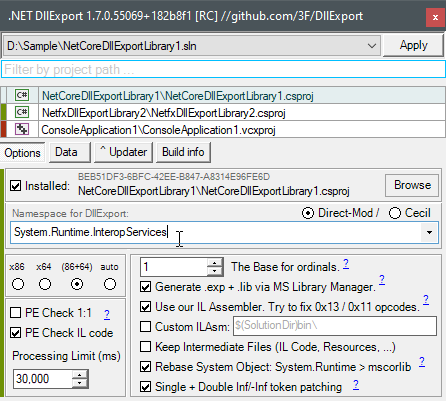
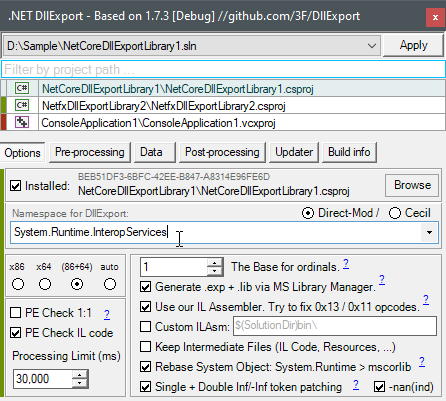
Public release. .NET DllExport 1.7.3
* FIXED: Fixed syntax error at token '-' in: IL_002d: ldc.r8 -nan(ind) with "return Double.NaN"
         Through "Single + Double NaN token patching" option. Issue #158.
            ```
            .field = float32(-nan(ind)) -> 0xFFC00000
            .field = float64(-nan(ind)) -> 0xFFF8000000000000

            ldc.r8 -nan(ind) -> 00 00 00 00 00 00 F8 FF
            ldc.r4 -nan(ind) -> 00 00 C0 FF
            ```

* FIXED: NuGet packages are not visible as installed when DLLExport enabled for project.
         Issue #152.

* FIXED: Concurrency Issue with Parallel Project Builds. Issue #73.

* FIXED: Fixed the first phase of the build when restoring. Related issue #159.

* FIXED: Fixed VS NuGet PM possible error:
         "You cannot call a method on a null-valued expression."

* CHANGED: Improves package integration. PR  #161.
            - Updated logic for packages through `-pkg-link` key.
            - Removed `-force` key from the project files
              if it was pushed together with other commands for manager.

Changed region(s): [[0.0, 0.1796, 1.0, 0.419], [0.1749, 0.0299, 0.8161, 0.0599], [0.8453, 0.9576, 0.991, 0.9875]]

diff --git a/DllExportVersion.cs b/DllExportVersion.cs
@@ -6,12 +6,12 @@ namespace net.r_eg.DllExport
 
     internal struct DllExportVersion
     {
-        public const string S_NUM = "1.7.1";
+        public const string S_NUM = "1.7.3";
         public const string S_REV = "0";
         public const string S_REL = "";
 
         public const string S_NUM_REV = S_NUM + "." + S_REV;
-        public const string S_PRODUCT = "1.7.1";
+        public const string S_PRODUCT = "1.7.3";
 
         public const string BRANCH_SHA1 = "-";
         public const string BRANCH_NAME = "-";

diff --git a/Readme.md b/Readme.md
@@ -1,6 +1,6 @@
 # [.NET DllExport](https://github.com/3F/DllExport)
 
-*.NET DllExport* (aka 3F/DllExport)
+*.NET DllExport* with .NET Core support (aka 3F/DllExport)
 
 ```
 Copyright (c) 2009-2015  Robert Giesecke
@@ -22,9 +22,7 @@ Copyright (c) 2016-2020  Denis Kuzmin < x-3F@outlook.com > GitHub/3F
 [`DllExport`](https://3f.github.io/DllExport/releases/latest/manager/)` -action Configure` [[?](#how-to-get-dllexport)]
 
 > [ ***[Quick start](https://github.com/3F/DllExport/wiki/Quick-start)*** ] [ [Examples: C++, C#, Java](https://github.com/3F/DllExport/wiki/Examples) ] 
-> -> { **[Wiki](https://github.com/3F/DllExport/wiki)** }
-
-~ ~ ~ --- ~ ~ ~
+> -> { **[Wiki](https://github.com/3F/DllExport/wiki)** } { [🧪 Demo src](https://github.com/3F/Examples/tree/master/DllExport/BasicExport) }
 
 ```csharp
 [DllExport]
@@ -53,30 +51,8 @@ public static int entrypoint(IntPtr L)
 We're supporting the following PE modules: Library (**.dll**) and Executable (**.exe**) [[?](https://github.com/3F/DllExport/issues/18)]
 
 
-v1.2+ provides dynamic definitions of namespaces ([ddNS feature](https://github.com/3F/DllExport/wiki/Quick-start#namespaces)):
-
-```cpp
-    Via Cecil or direct modification:
-
-    000005B0                 00 C4 7B 01 00 00 00 2F 00 12 05       .Д{..../...
-    000005C0  00 00 02 00 00 00 00 00 00 00 00 00 00 00 26 00  ..............&.
-    000005D0  20 02 00 00 00 00 00 00 00 49 2E 77 61 6E 74 2E   ........I.want.   <<<-
-    000005E0  74 6F 2E 66 6C 79 00 00 00 00 00 00 00 00 00 00  to.fly..........  <<<-
-```
-
 [![](./Resources/img/DllExport.png)](https://3f.github.io/DllExport/releases/latest/manager/)
 [![](https://raw.githubusercontent.com/3F/Conari/master/Conari/Resources/screencast_Complex_types.jpg)](https://www.youtube.com/watch?v=QXMj9-8XJnY)
-
-
-----
-
-
-[Initially](https://github.com/3F/DllExport/issues/3) the original tool `UnmanagedExports` was distributed by Robert Giesecke as an closed-source tool **under the [MIT License](https://opensource.org/licenses/mit-license.php)**:
-
-* [Official page](https://sites.google.com/site/robertgiesecke/Home/uploads/unmanagedexports) - *posted Jul 9, 2009 [ updated Dec 19, 2012 ]*
-* [Official NuGet Packages](https://www.nuget.org/packages/UnmanagedExports)
-
-Now, we will be more open ! all details [here](https://github.com/3F/DllExport/issues/3)
 
 ## License
 
@@ -132,82 +108,27 @@ Read also my brief explanations here: [AssemblyRef encoding](https://github.com/
 
 Since v1.6+ have no official support of NuGet clients ([[?](https://github.com/3F/DllExport/wiki/DllExport-Manager-Q-A)]), you need just use [this](https://3f.github.io/DllExport/releases/latest/manager/) inside your solution folder. **Wiki:** [ [Quick start](https://github.com/3F/DllExport/wiki/Quick-start) ]
 
-Get our manager (~19 Kbytes) from any **trusted** place. Official [GHR](https://github.com/3F/DllExport/releases/latest) is recommended. But you can also get it from official packages via NuGet server [![NuGet package](https://img.shields.io/nuget/v/DllExport.svg)](https://www.nuget.org/packages/DllExport/), etc.
-
-[ **[Documentation](https://github.com/3F/DllExport/wiki/DllExport-Manager)** ]
-
-[![DllExport.bat](./Resources/img/DllExport_manager.png)](https://github.com/3F/DllExport/wiki/DllExport-Manager#console)
-
-Other way:
-
-* `gnt /p:ngpackages="DllExport"` [[?](https://github.com/3F/GetNuTool)]
-    * [GetNuTool](https://github.com/3F/GetNuTool): `msbuild gnt.core /p:ngpackages="DllExport"` or [`gnt`](https://3F.github.io/GetNuTool/releases/latest/gnt/)` /p:ngpackages="DllExport"`
-* (deprecated) NuGet PM: `Install-Package DllExport`
-* (deprecated) NuGet Commandline: `nuget install DllExport`
-* GHR Stable: [/releases](https://github.com/3F/DllExport/releases) [ [latest stable](https://github.com/3F/DllExport/releases/latest) ]
-* CI builds: [`/artifacts` page](https://ci.appveyor.com/project/3Fs/dllexport-ix27o/history) ( [old CI](https://ci.appveyor.com/project/3Fs/dllexport/history) ) or find `🎲 CI build` on [GitHub Releases](https://github.com/3F/Dllexport/releases) page.
+Get our manager (~20 Kbytes) from any **trusted** place. Official [GHR](https://github.com/3F/DllExport/releases/latest) is recommended. But you can also get it from official packages via NuGet server [![NuGet package](https://img.shields.io/nuget/v/DllExport.svg)](https://www.nuget.org/packages/DllExport/), etc. [ **[Documentation](https://github.com/3F/DllExport/wiki/DllExport-Manager)** ]
 
 ### How to Build .NET DllExport
 
 Just use build.bat if you need final binaries (NuGet package as `DllExport.<version>.nupkg`, Manager, zip-archives, and others).
 
 ```batch
-.\build
+.\build Debug
 ```
 
-Part of this build scripts works via vssbe ([?](https://github.com/3F/DllExport/issues/31#issuecomment-294231378)) and for build via console (including CI etc.) uses [CIM](https://www.nuget.org/packages/vsSolutionBuildEvent/) version of this. You do not need anything else, just type `build`.
+Part of the build works through [vssbe](https://github.com/3F/vsSolutionBuildEvent) (including CI that uses [CIM](https://www.nuget.org/packages/vsSolutionBuildEvent/) version). But you don't need to do anything at all. For Visual Studio IDE you can also use [vsix version](https://visualstudiogallery.msdn.microsoft.com/0d1dbfd7-ed8a-40af-ae39-281bfeca2334/)
 
-For Visual Studio use this [vsix version for IDE](https://visualstudiogallery.msdn.microsoft.com/0d1dbfd7-ed8a-40af-ae39-281bfeca2334/)
+### Modified ILAsm + ILDasm on coreclr
 
-### How to Debug
-
-Wizard through MSBuild, for example:
-
-```
-C:\Windows\Microsoft.NET\Framework\v4.0.30319\MSBuild.exe
-```
-
-Arguments:
-
-```bash
-"net.r_eg.DllExport.Wizard.targets" /p:wRootPath="<...>" 
-/p:wSlnFile="<SolutionFile_for_debugging>.sln" /p:wAction="Configure" 
-/p:wPkgPath=packages/DllExport<version>
-```
-
-Working directory:
-```
-<path_to>\packages\DllExport<version>\tools
-```
-
-DllExport.MSBuild, for example:
-
-```
-C:\Program Files (x86)\MSBuild\14.0\Bin\MSBuild.exe
-```
-
-Arguments:
-
-```bash
-"<path_to_SolutionFile_for_debugging>.sln" /t:Build /p:Configuration=<Configuration>
-```
-
-use additional `Diagnostic` key to msbuild if you need more details:
-```bash
-"<SolutionFile>.sln" /verbosity:Diagnostic /t:Rebuild /p:Configuration=<Configuration>
-```
-
-Now you can debug at runtime.
-
-### coreclr ILAsm / ILDasm
-
-We're using **our custom versions on coreclr** specially for our .NET DllExport project - https://github.com/3F/coreclr
+We're using **our modified versions on coreclr** specially for our .NET DllExport project - https://github.com/3F/coreclr
 
 This helps to avoid some problems ([like this](https://github.com/3F/DllExport/issues/125#issuecomment-561245575), or [this](https://github.com/3F/DllExport/issues/17)) and more...
 
 *To build minimal version (it will not include all components as for original coreclr repo):*
 
-* Restore git submodule or use repo: https://github.com/3F/coreclr.git
+Restore git submodule or use repo: https://github.com/3F/coreclr.git
 
 ```bash
 git submodule update --init --recursive
@@ -219,21 +140,15 @@ git submodule update --init --recursive
 build-s -all -x86 -x64 Release
 ```
 
-or use
-```bash
-build-coreclr-ilasm-x64.cmd
-build-coreclr-ilasm-x86+x64.cmd
-```
-
-*You can also use our compiled versions:*
-
-* [![NuGet package](https://img.shields.io/nuget/v/ILAsm.svg)](https://www.nuget.org/packages/ILAsm/)
+*You can also use our compiled versions:* [![NuGet package](https://img.shields.io/nuget/v/ILAsm.svg)](https://www.nuget.org/packages/ILAsm/)
 
 ### Donation
 
-Please note again, the [UnmanagedExports](https://www.nuget.org/packages/UnmanagedExports) was created by Robert Giesecke. You need [visit his page](https://sites.google.com/site/robertgiesecke/Home/uploads/unmanagedexports).
+Please note again, the [UnmanagedExports](https://www.nuget.org/packages/UnmanagedExports) was created by Robert Giesecke. His page is [here](https://sites.google.com/site/robertgiesecke/Home/uploads/unmanagedexports). [[?](https://github.com/3F/DllExport/issues/3#issuecomment-232422362)]
 
-But this repository [**does not related**](https://github.com/3F/DllExport/issues/87#issuecomment-438576100) to Robert and generally still being developed by [GitHub/3F](https://github.com/3F) developer (Follow the news: [ [GitHub](https://github.com/3F) ]; [ [twitter](https://twitter.com/GitHub3F) ]). 
+But *.NET DllExport* [**is not related to him**](https://github.com/3F/DllExport/issues/87#issuecomment-438576100).
+
+✔ *.NET DllExport* is developed for you by [GitHub/3F](https://github.com/3F) ([ [GitHub](https://github.com/3F) ]; [ [twitter](https://twitter.com/GitHub3F) ]). 
 
 If something is helpful from *3F/DllExport,* donations are welcomed, and thanks !
 
